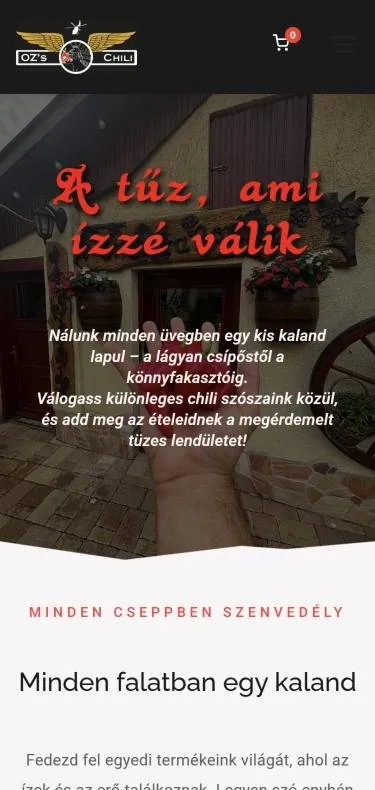
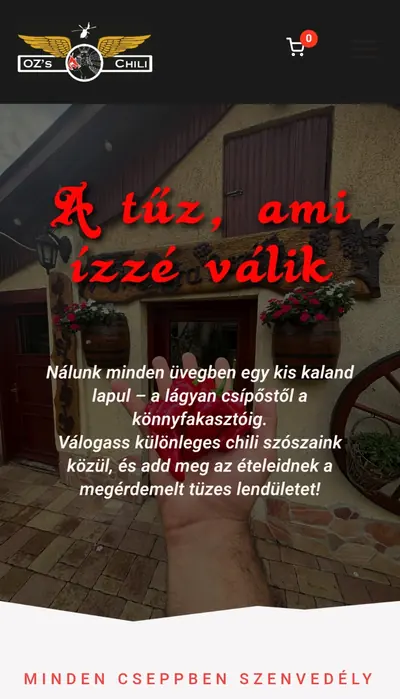
Portfolio: new phone screenshots for all four projects
Claude-Session: https://claude.ai/code/session_01THeUUbQYYXzRk15ndckw2e

diff --git a/src/components/interactive/Showcase.tsx b/src/components/interactive/Showcase.tsx
@@ -94,8 +94,8 @@ export default function Showcase({ lang }: { lang: Lang }) {
             className={`pimg ${phone ? swap : "off"}`}
             src={phone ?? REF.tasko.shots.m}
             alt=""
-            width={375}
-            height={790}
+            width={400}
+            height={700}
           />
           <div className={`site ${swap}`} style={vars} key={`m${tick}`}>
             <div className="site-nav">

diff --git a/src/lib/refs.ts b/src/lib/refs.ts
@@ -389,6 +389,7 @@ export const REF = {
     live: "https://envolve.hu",
     shots: {
       d: shot("envolve-home", 506, "Diák kezdőoldal", "Student home"),
+      m: "/img/envolve-m.webp",
       gal: [
         shot("envolve-lesson", 411, "Hangalapú AI lecke", "AI voice lesson"),
         shot(

diff --git a/src/app/globals.css b/src/app/globals.css
@@ -909,7 +909,8 @@ header.nav {
   right: 0;
   bottom: 0;
   width: 25%;
-  aspect-ratio: 9/19;
+  /* matches the phone screenshots (visible page area without browser bars) */
+  aspect-ratio: 9/16;
   border-radius: 22px;
   background: #111;
   padding: 5px;

diff --git a/src/components/RefMock.tsx b/src/components/RefMock.tsx
@@ -97,8 +97,8 @@ export function Shot({
         className={className}
         src={r.shots.m}
         alt={alt}
-        width={375}
-        height={790}
+        width={400}
+        height={700}
         loading="lazy"
       />
     );
